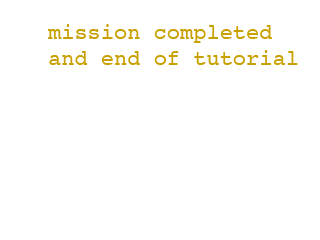
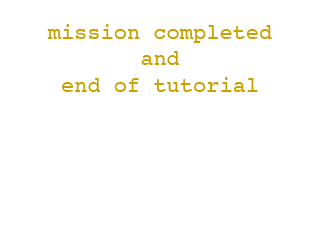
started sprite animation. tutorial code simulation now pause between each instruction.

diff --git a/Classes/Views/IntroMap4Scene.m b/Classes/Views/IntroMap4Scene.m
@@ -13,6 +13,7 @@
 
 //-----------------------------------------------------------------------------------------------------------------------------------
 #define kSHOW_MESSAGE           30
+#define kINSTRUCTION_DELAY      20
 #define kTAP_COUNTER_DELTA      150
 #define kMAX_TAPS               3
 #define kSTART_PROGRAM          30
@@ -55,8 +56,10 @@
 @synthesize counter;
 @synthesize messageDisplayedCount;
 @synthesize startCount;
+@synthesize instructionCount;
 @synthesize energy;
 @synthesize startMission;
+@synthesize setInstructionCounter;
 @synthesize stopMission;
 @synthesize acceptTouches;
 @synthesize moveSeekerDown;
@@ -121,6 +124,7 @@
 - (void)showMoveSeekerDown {
     [self updateEnergy];
     self.seekerMoveCount++;
+    self.setInstructionCounter = YES;
     if (self.seekerMoveCount == 1) {
         [self.displayedMessageSprite removeFromParentAndCleanup:YES];
     } else if (self.seekerMoveCount == kSEEKER_MOVE_DOWN_COUNT) {
@@ -140,6 +144,7 @@
 - (void)showMoveSeekerUp {
     [self updateEnergy];
     self.seekerMoveCount++;
+    self.setInstructionCounter = YES;
     if (self.seekerMoveCount == kSEEKER_MOVE_UP_COUNT) {
         self.moveSeekerUp = NO;
         self.stopMission = YES;
@@ -155,6 +160,7 @@
 - (void)showGetSample {
     self.getSample = NO;
     self.turnLeft1 = YES;
+    self.setInstructionCounter = YES;
     [self.sampleSprite removeFromParentAndCleanup:YES];
     CGSize screenSize = [[CCDirector sharedDirector] winSize];
     [self.instructionSprite removeFromParentAndCleanup:YES];
@@ -164,6 +170,7 @@
 //-----------------------------------------------------------------------------------------------------------------------------------
 - (void)showTurnLeft1 {
     self.turnLeft1 = NO;
+    self.setInstructionCounter = YES;
     [self showTurnLeft];
     self.turnLeft2 = YES;
 }
@@ -171,6 +178,7 @@
 //-----------------------------------------------------------------------------------------------------------------------------------
 - (void)showTurnLeft2 {
     self.turnLeft2 = NO;
+    self.setInstructionCounter = YES;
     [self showTurnLeft];
     self.moveSeekerUp = YES;
 }
@@ -205,7 +213,7 @@
             break;
         case 3:
             [self.instructionSprite removeFromParentAndCleanup:YES];
-            self.displayedMessageSprite = [CCSprite spriteWithFile:@"map-mission-completed.png"];
+            self.displayedMessageSprite = [CCSprite spriteWithFile:@"map4-mission-completed.png"];
             [self.seeker rotate:360.0];
             break;
     }
@@ -239,17 +247,19 @@
 	if((self=[super init])) {
         self.counter = 0;
         self.counter = 0;
-        self.energy = 12;
+        self.energy = 10;
         self.seekerMoveCount = 0;
         self.tapCounter = 0;
         self.messageDisplayedCount = 0;
         self.startCount = 0;
+        self.instructionCount = 0;
         self.isTouchEnabled = YES;
         self.moveSeekerUp = NO;
         self.moveSeekerDown = NO;
         self.getSample = NO;
         self.missionComplete = NO;
         self.tapContinue = NO;
+        self.setInstructionCounter = NO;
         self.turnLeft1 = NO;
         self.turnLeft2 = NO;
         self.stopMission = NO;
@@ -286,15 +296,19 @@
             [self showTapToContinue];
         } else if (self.counter - self.startCount == kSTART_PROGRAM) {
             self.moveSeekerDown = YES;
-        } else if (self.moveSeekerDown) {
+            self.setInstructionCounter = YES;
+       } else if (self.setInstructionCounter) {
+            self.instructionCount = self.counter;
+            self.setInstructionCounter = NO;
+        } else if (self.moveSeekerDown && (self.counter - self.instructionCount) == kINSTRUCTION_DELAY) {
             [self showMoveSeekerDown];
-        } else if (self.getSample) {
+        } else if (self.getSample && (self.counter - self.instructionCount) == kINSTRUCTION_DELAY) {
             [self showGetSample];
-        } else if (self.turnLeft1) {
+        } else if (self.turnLeft1 && (self.counter - self.instructionCount) == kINSTRUCTION_DELAY) {
             [self showTurnLeft1];
-        } else if (self.turnLeft2) {
+        } else if (self.turnLeft2 && (self.counter - self.instructionCount) == kINSTRUCTION_DELAY) {
             [self showTurnLeft2];
-        } else if (self.moveSeekerUp) {
+        } else if (self.moveSeekerUp && (self.counter - self.instructionCount) == kINSTRUCTION_DELAY) {
             [self showMoveSeekerUp];
         }    
     }

diff --git a/Classes/Views/IntroMap3Scene.m b/Classes/Views/IntroMap3Scene.m
@@ -13,6 +13,7 @@
 
 //-----------------------------------------------------------------------------------------------------------------------------------
 #define kSTART_PROGRAM      30
+#define kINSTRUCTION_DELAY  20
 #define kSEEKER_STEP_SIZE   60
 #define kSEEKER_MOVE_COUNT  3
 #define kSEEKER_SPEED       15
@@ -36,7 +37,6 @@
 @implementation IntroMap3Scene
 
 //-----------------------------------------------------------------------------------------------------------------------------------
-@synthesize startMission;
 @synthesize statusDisplay;
 @synthesize displayedMessageSprite;
 @synthesize tapCounterMessageSprite;
@@ -47,7 +47,10 @@
 @synthesize seekerMoveCount;
 @synthesize counter;
 @synthesize startCount;
+@synthesize instructionCount;
 @synthesize energy;
+@synthesize startMission;
+@synthesize setInstructionCounter;
 @synthesize acceptTouches;
 @synthesize moveSeeker;
 @synthesize putPod;
@@ -106,6 +109,7 @@
 - (void)showMoveSeeker {
     [self updateEnergy];
     self.seekerMoveCount++;
+    self.setInstructionCounter = YES;
     if (self.seekerMoveCount == kSEEKER_MOVE_COUNT) {
         self.moveSeeker = NO;
         self.putPod = YES;
@@ -171,12 +175,14 @@
         self.energy = 6;
         self.seekerMoveCount = 0;
         self.startCount = 0;
+        self.instructionCount = 0;
         self.isTouchEnabled = YES;
         self.startMission = YES;
         self.moveSeeker = NO;
         self.putPod = NO;
         self.missionComplete = NO;
         self.tapContinue = NO;
+        self.setInstructionCounter = NO;
         self.instructionSprite = nil;
         CCSprite* backgroundGrid = [CCSprite spriteWithFile:@"empty-map-stop.png"];
         backgroundGrid.anchorPoint = CGPointMake(0.0, 0.0);
@@ -201,9 +207,13 @@
             self.startCount = self.counter;
         } else if (self.counter - self.startCount == kSTART_PROGRAM) {
             self.moveSeeker = YES;
-        } else if (self.moveSeeker) {
+            self.setInstructionCounter = YES;
+        } else if (self.setInstructionCounter) {
+            self.instructionCount = self.counter;
+            self.setInstructionCounter = NO;
+        } else if (self.moveSeeker && (self.counter - self.instructionCount) == kINSTRUCTION_DELAY) {
             [self showMoveSeeker];
-        } else if (self.putPod) {
+        } else if (self.putPod && (self.counter - self.instructionCount) == kINSTRUCTION_DELAY) {
             [self showPutPod];
         } else if (self.missionComplete) {
             [self showMissionComplete];

diff --git a/Classes/Utils/AnimatedSprite.m b/Classes/Utils/AnimatedSprite.m
@@ -1,0 +1,49 @@
+//
+//  AnimatedSprite.m
+//  seeker1
+//
+//  Created by Troy Stribling on 3/25/11.
+//  Copyright 2011 imaginary products. All rights reserved.
+//
+//
+//-----------------------------------------------------------------------------------------------------------------------------------
+#import "AnimatedSprite.h"
+
+//-----------------------------------------------------------------------------------------------------------------------------------
+
+/////////////////////////////////////////////////////////////////////////////////////////////////////////////////////////////////////
+@interface AnimatedSprite (PrivateAPI)
+
+@end
+
+/////////////////////////////////////////////////////////////////////////////////////////////////////////////////////////////////////
+@implementation AnimatedSprite
+
+//===================================================================================================================================
+#pragma mark AnimatedSprite PrivateAPI
+
+//===================================================================================================================================
+#pragma mark AnimatedSprite
+
+//-----------------------------------------------------------------------------------------------------------------------------------
++ (id)animationFromFile:(NSString*)_file {
+    return [[[self alloc] initFromFile:_file] autorelease];
+}
+
+//-----------------------------------------------------------------------------------------------------------------------------------
+- (id)initFromFile:(NSString*)_file {
+    NSArray* fileComponents = [_file componentsSeparatedByString:@"."];
+    NSString* plistFile = [NSString stringWithFormat:@"%@.plist", [fileComponents objectAtIndex:0]];
+	CCSpriteFrameCache* frameCache = [CCSpriteFrameCache sharedSpriteFrameCache];
+	[frameCache addSpriteFramesWithFile:plistFile];
+	if ((self = [super initWithFile:_file capacity:10])) {
+		CCAnimation* anim = [CCAnimation animationWithFrame:@"ship-anim" frameCount:5 delay:0.08f];
+		CCAnimate* animate = [CCAnimate actionWithAnimation:anim];
+		CCRepeatForever* repeat = [CCRepeatForever actionWithAction:animate];
+		[self runAction:repeat];
+		[self scheduleUpdate];
+	}
+	return self;
+}
+
+@end

diff --git a/Classes/Views/IntroMap4Scene.h b/Classes/Views/IntroMap4Scene.h
@@ -25,9 +25,11 @@
     NSInteger messageDisplayedCount;
     NSInteger tapCounter;
     NSInteger startCount;
+    NSInteger instructionCount;
     NSInteger seekerMoveCount;
     NSInteger energy;
     BOOL startMission;
+    BOOL setInstructionCounter;
     BOOL stopMission;
     BOOL acceptTouches;
     BOOL moveSeekerDown;
@@ -48,10 +50,12 @@
     @property (nonatomic, retain) SeekerSprite* seeker;
     @property (nonatomic, assign) NSInteger tapCounter;
     @property (nonatomic, assign) NSInteger startCount;
+    @property (nonatomic, assign) NSInteger instructionCount;
     @property (nonatomic, assign) NSInteger counter;
     @property (nonatomic, assign) NSInteger messageDisplayedCount;
     @property (nonatomic, assign) NSInteger seekerMoveCount;
     @property (nonatomic, assign) NSInteger energy;
+    @property (nonatomic, assign) BOOL setInstructionCounter;
     @property (nonatomic, assign) BOOL startMission;
     @property (nonatomic, assign) BOOL stopMission;
     @property (nonatomic, assign) BOOL acceptTouches;

diff --git a/Classes/Utils/AnimatedSprite.h b/Classes/Utils/AnimatedSprite.h
@@ -1,0 +1,23 @@
+//
+//  AnimatedSprite.h
+//  seeker1
+//
+//  Created by Troy Stribling on 3/25/11.
+//  Copyright 2011 imaginary products. All rights reserved.
+//
+//
+//-----------------------------------------------------------------------------------------------------------------------------------
+#import <Foundation/Foundation.h>
+#import "CCAnimationHelper.h"
+
+//-----------------------------------------------------------------------------------------------------------------------------------
+
+/////////////////////////////////////////////////////////////////////////////////////////////////////////////////////////////////////
+@interface AnimatedSprite : CCSpriteSheet {
+}
+
+//-----------------------------------------------------------------------------------------------------------------------------------
++ (id)animationFromFile:(NSString*)_file;
+- (id)initFromFile:(NSString*)_file;
+
+@end

diff --git a/Classes/Views/IntroMap3Scene.h b/Classes/Views/IntroMap3Scene.h
@@ -24,9 +24,11 @@
     SeekerSprite* seeker;
     NSInteger counter;
     NSInteger startCount;
+    NSInteger instructionCount;
     NSInteger seekerMoveCount;
     NSInteger energy;
     BOOL startMission;
+    BOOL setInstructionCounter;
     BOOL acceptTouches;
     BOOL moveSeeker;
     BOOL putPod;
@@ -44,9 +46,11 @@
 @property (nonatomic, retain) SeekerSprite* seeker;
 @property (nonatomic, assign) NSInteger counter;
 @property (nonatomic, assign) NSInteger startCount;
+@property (nonatomic, assign) NSInteger instructionCount;
 @property (nonatomic, assign) NSInteger seekerMoveCount;
 @property (nonatomic, assign) NSInteger energy;
 @property (nonatomic, assign) BOOL startMission;
+@property (nonatomic, assign) BOOL setInstructionCounter;
 @property (nonatomic, assign) BOOL acceptTouches;
 @property (nonatomic, assign) BOOL moveSeeker;
 @property (nonatomic, assign) BOOL putPod;

diff --git a/Classes/Views/TutorialIndexViewController.m b/Classes/Views/TutorialIndexViewController.m
@@ -13,6 +13,7 @@
 #import "TutorialIndexViewController.h"
 #import "UserModel.h"
 #import "IntroMap1Scene.h"
+#import "IntroMap3Scene.h"
 
 //-----------------------------------------------------------------------------------------------------------------------------------
 #define kTUTORIAL_INDEX_LAUNCHER_BACK_TAG   1
